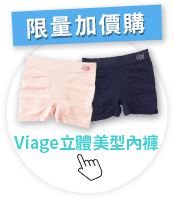
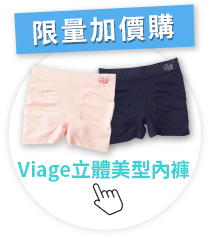
20210709_buybtn bigger

diff --git a/css/style.css b/css/style.css
@@ -192,7 +192,7 @@
  
  .buybtn{
     cursor:pointer;
-    width: 174px;
+    width: 200px;
     position: fixed;
     right: 0;
     bottom: 76px;
@@ -201,7 +201,7 @@
 .buybtn img{width: 100%; height: auto;}
 @media screen and (max-width: 768px){
     .buybtn{
-        width: 28%;
+        width: 36%;
         max-width: 170px;
     }
 }
